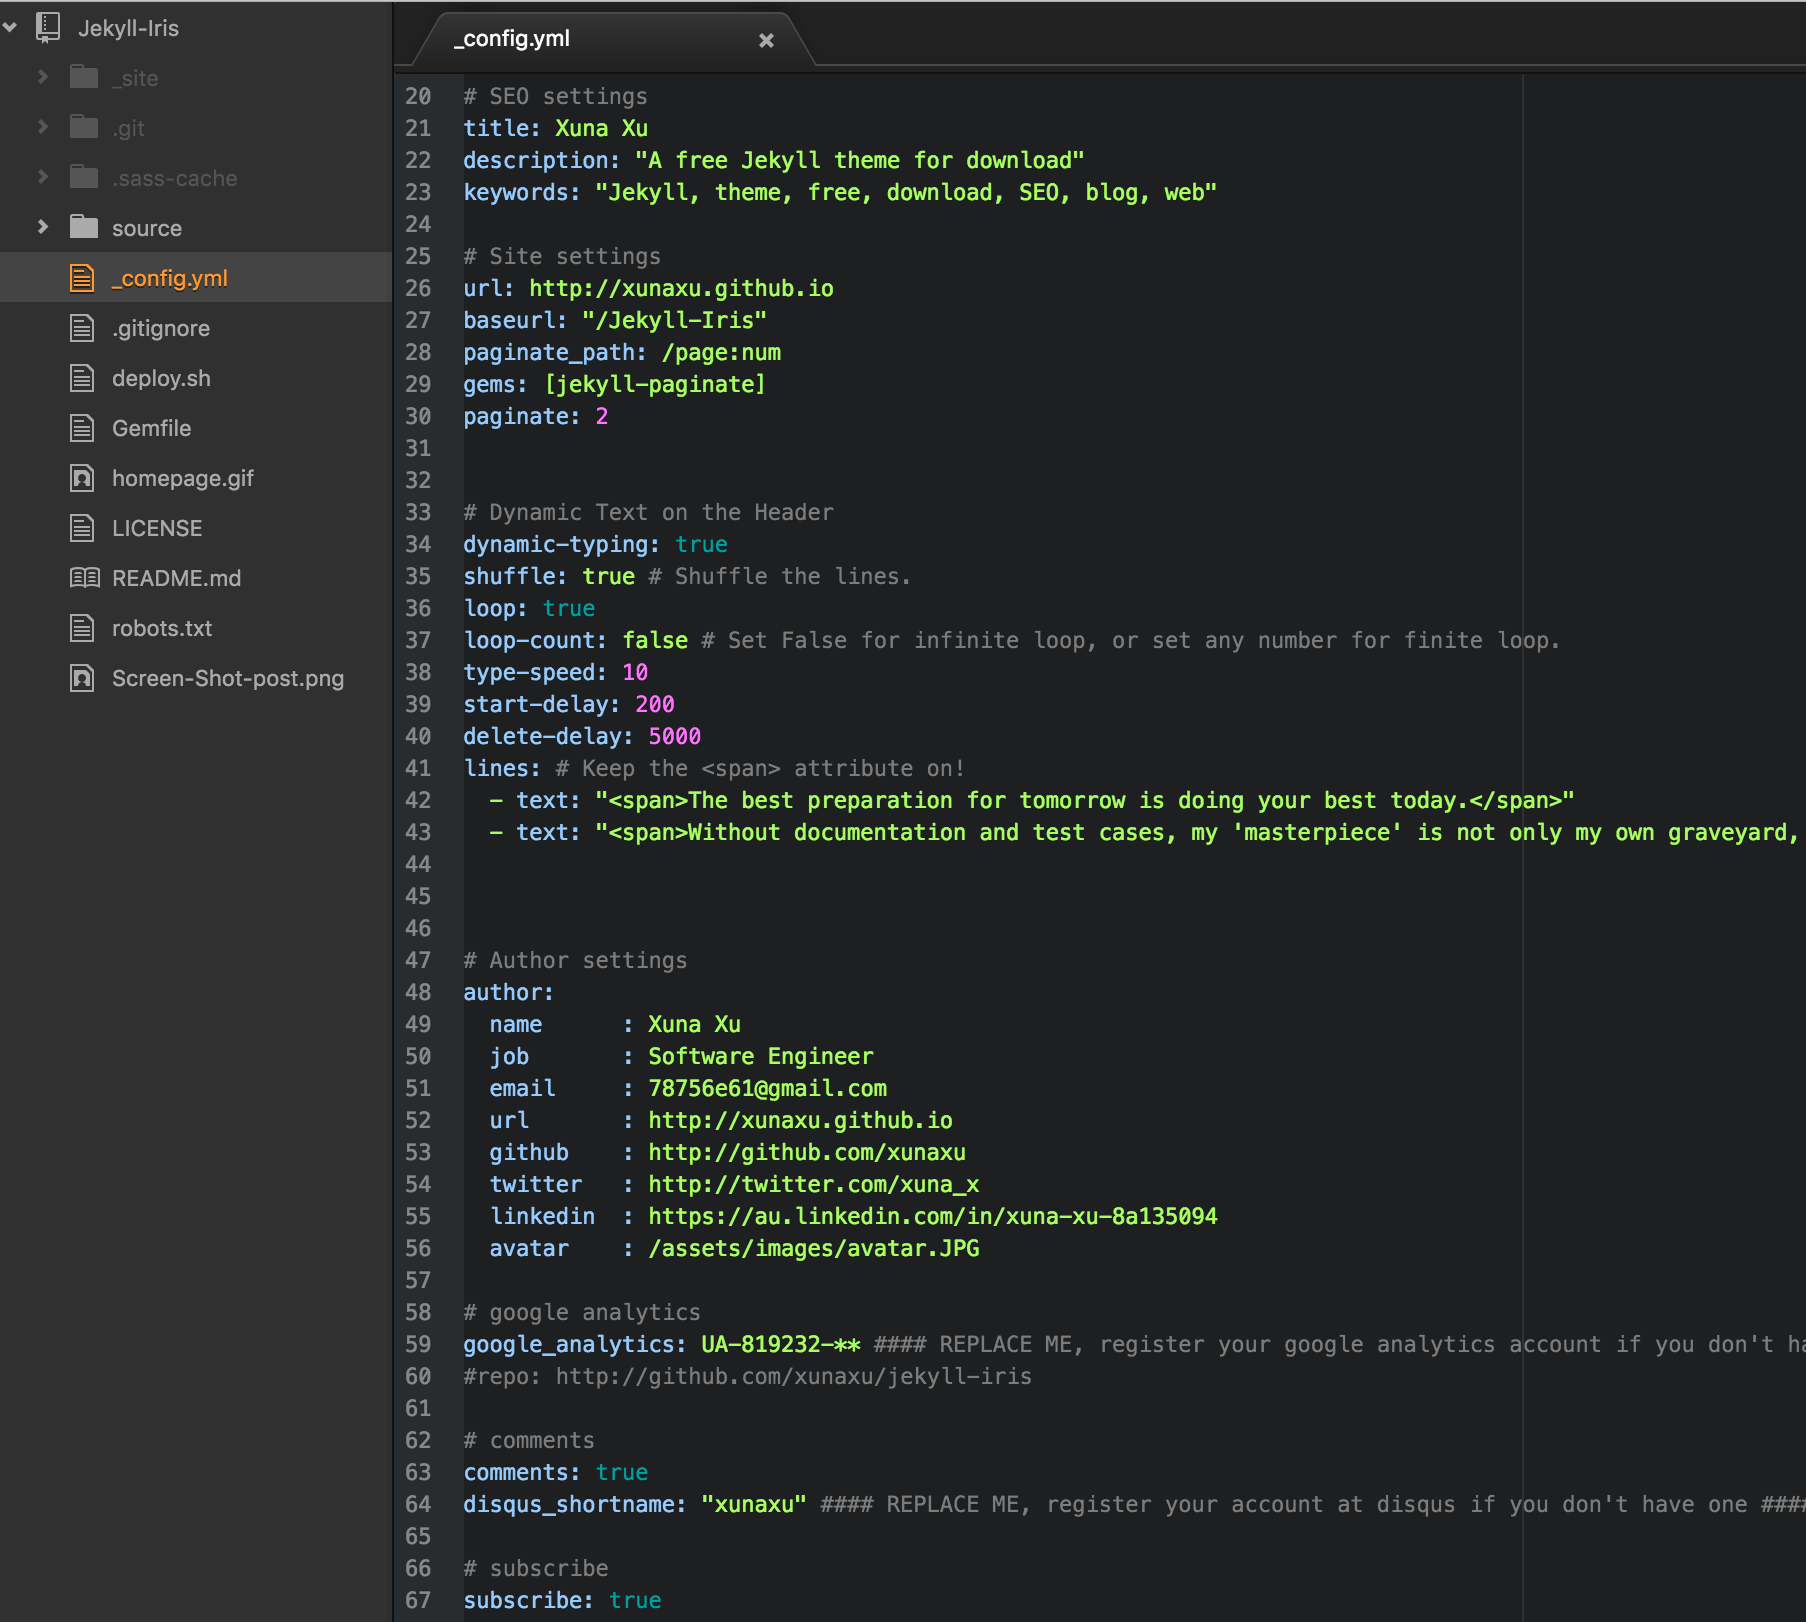
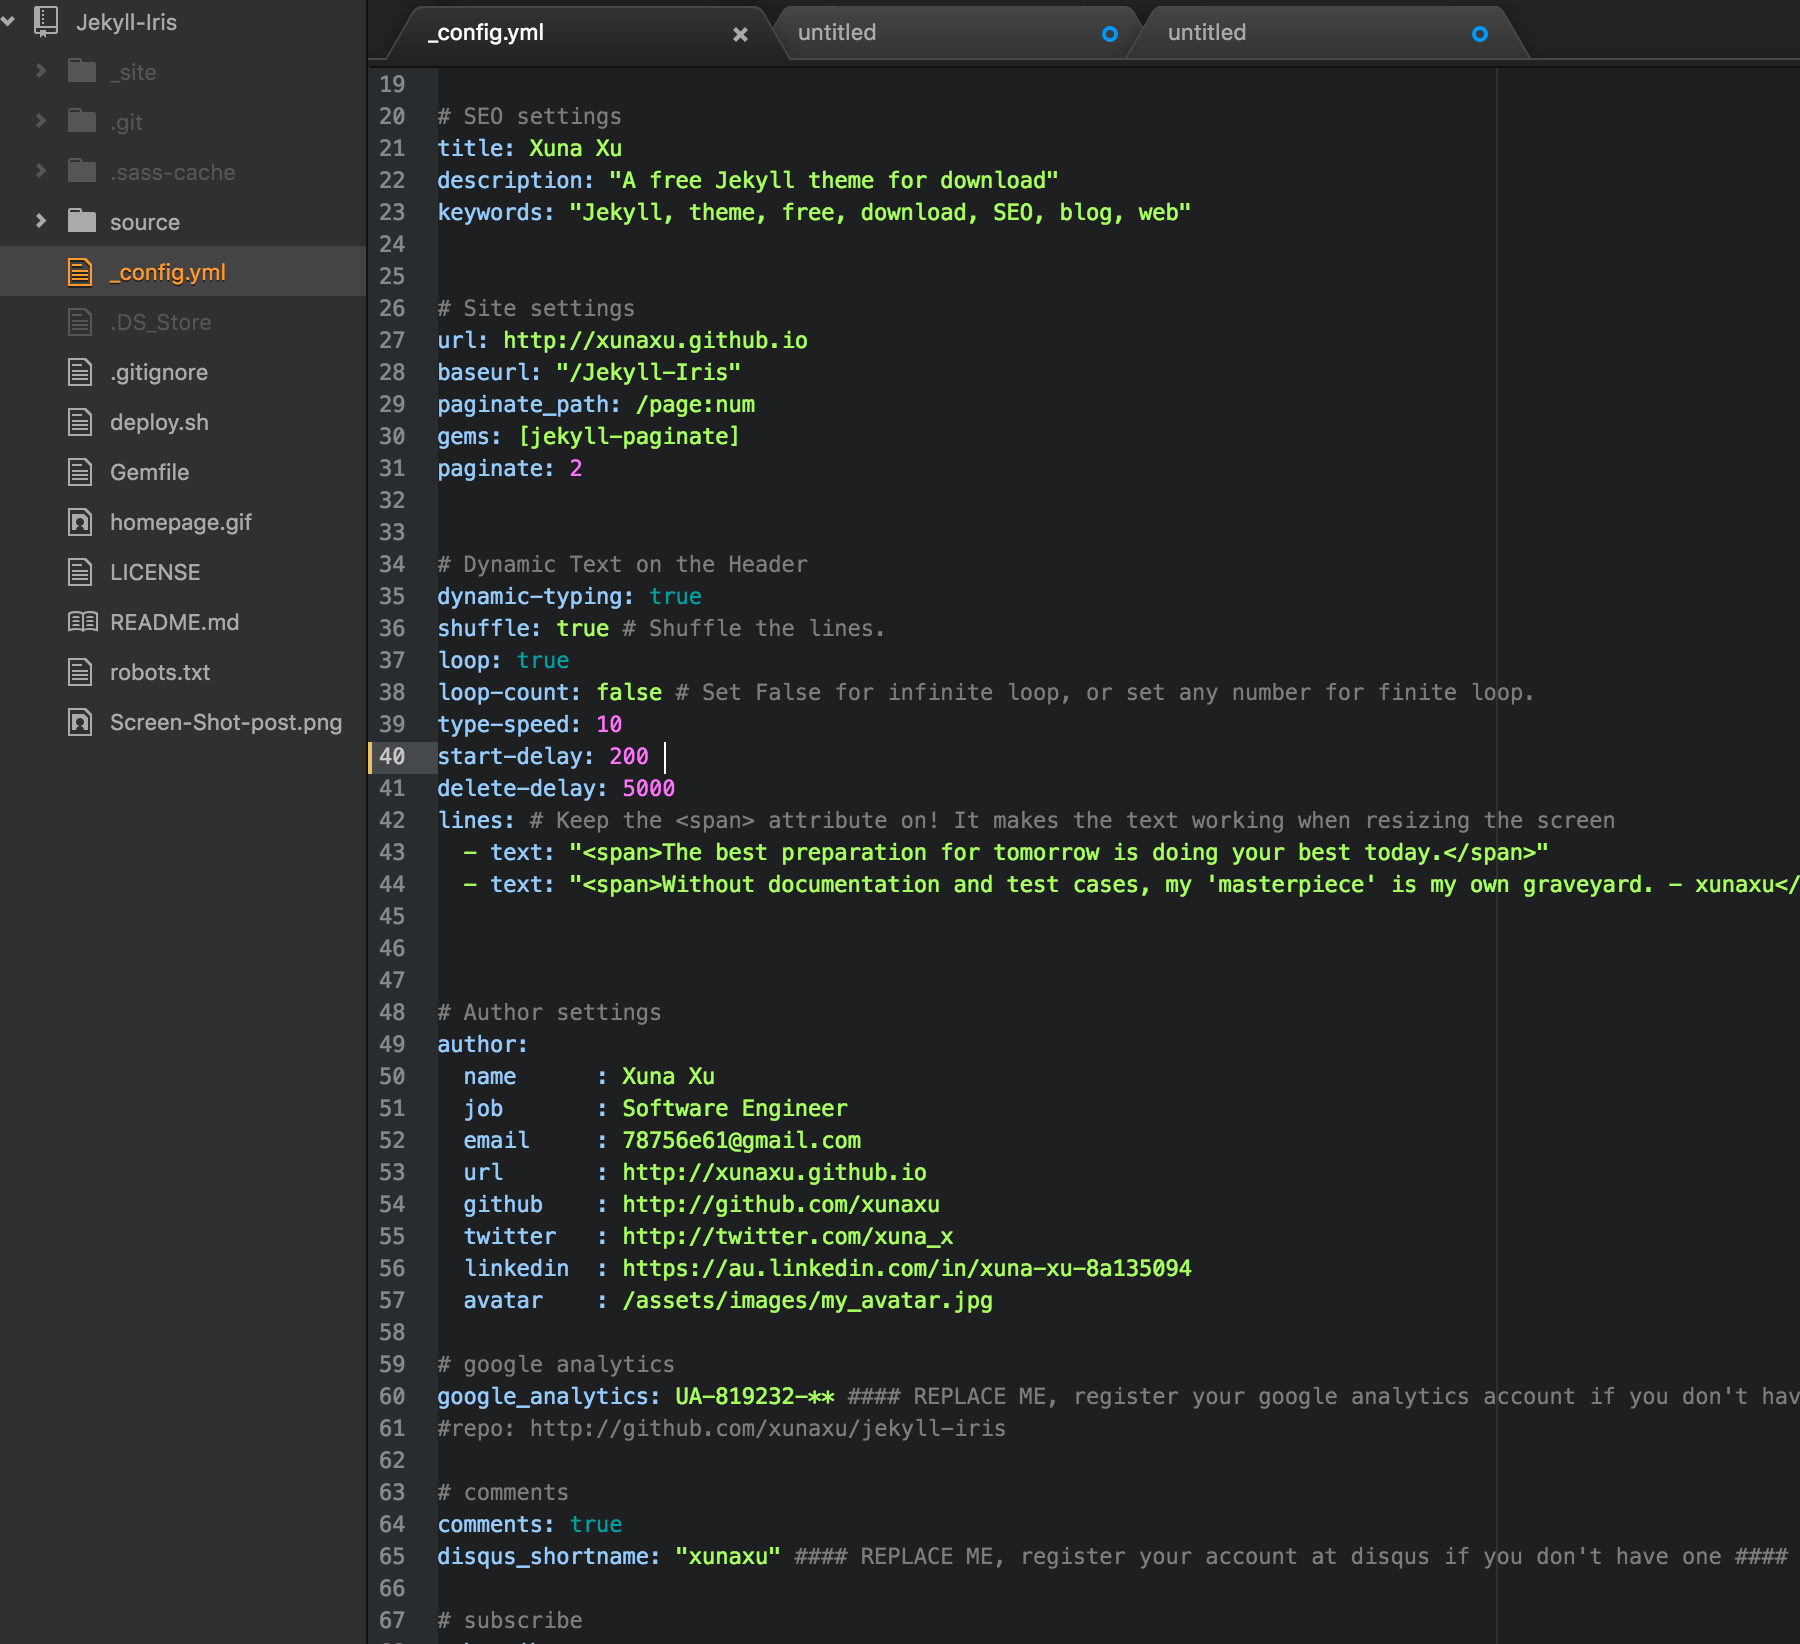
deploy

diff --git a/How to set up your blog site using Jekyll and Github.html b/How to set up your blog site using Jekyll and Github.html
@@ -187,9 +187,9 @@ Update the title variable to your name or whatever you like. This will impact on
   github    : http://github.com/xunaxu
   twitter   : http://twitter.com/xuna_x
   linkedin  : https://au.linkedin.com/in/xuna-xu-8a135094
-  avatar    : /assets/images/avatar.jpg
+  avatar    : /assets/images/my_avatar.jpg
  </code>
-  Social media accounts are your contact details in the footer, so people can connect with you via github, twitter and linkedin. To change the avatar, you need to replace avatar.jpg located at Jekyll-Iris/source/assets/images. The rest are not being used and are there only for house keeping.</p>
+  Social media accounts are your contact details in the footer, so people can connect with you via github, twitter and linkedin. To change the avatar, you need to replace my_avatar.jpg located at Jekyll-Iris/source/assets/images. The rest are not being used and are there only for house keeping.</p>
       </li>
       <li>
         <h4 id="add-google-analytics">Add Google Analytics</h4>
